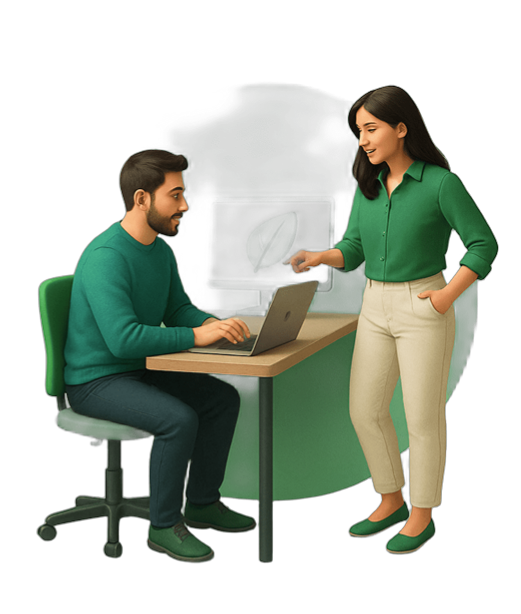
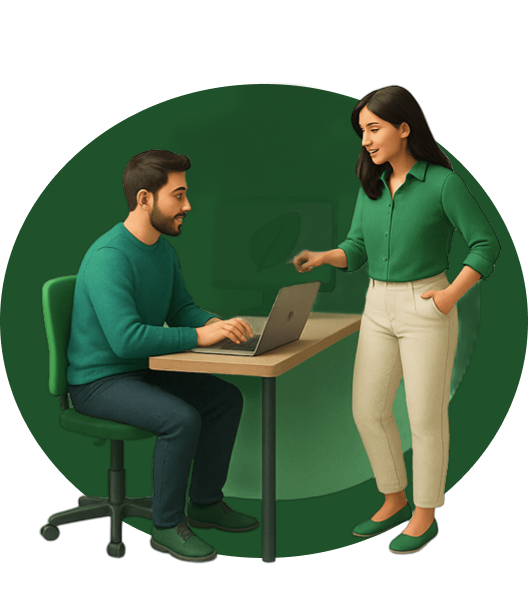
nossa visao basic css done

diff --git a/CSS/visao.css b/CSS/visao.css
@@ -8,12 +8,14 @@
 
 #visao_content {
   width: 50%;
+  /* height: 10%; */
   display: flex;
   flex-direction: column;
-  margin-top: 0;
-  margin-right: 10rem;
+  margin-top: 4%;
+  margin-right: 7.5rem;
   margin-left: 0;
-  background-color: rgb(0, 225, 255);
+  /* background-color: #fbff00; */
+
   z-index: 3;
 }
 
@@ -22,26 +24,62 @@
   height: auto;
   display: block;
   margin: 0;
-  /* margin-left: 2rem; */
+  margin-right: 2rem;
   /* z-index: 1; */
 }
 
 #visao .shape-visao {
-  background-color: #000000;
-  width: 25%;
+  background-color: #2e6239;
+  width: 43%;
   height: 70%;
   position: absolute;
   border-radius: 5% 5% 5% 5%;
-  top: 450vh;
-  left: 45rem;
+  top: 463vh;
+  left: 42rem;
   z-index: 1;
   filter: blur(2px);
 }
 
+#visao .shape2-visao {
+  background-color: #ffffff;
+  width: 40%;
+  height: 10%;
+  position: absolute;
+  border-radius: 8px;
+  top: 457vh;
+  left: 43.3rem;
+  z-index: 2;
+  box-shadow: 0px 10px 10px 2px rgba(0, 0, 0, 0.4);
+}
+
 #visao_content .section-title {
-  color: red;
+  color: #30633b;
+  font-size: 2rem;
+  font-weight: 700;
+  white-space: nowrap;
+  margin-left: 7.5rem;
 }
 
 #visao_content .section-subtitle {
-  color: rgb(38, 0, 255);
+  color: #ffffff;
+  /* margin-bottom: 2rem; */
+  font-size: 1.9rem;
+  margin-right: 13rem;
+  width: 105%;
+  font-weight: 300;
+  margin-bottom: 6rem;
+  line-height: 1.6;
+  font-weight: 300;
+}
+
+#visao .visao-description {
+  position: relative;
+  width: 120%;
+  height: auto;
+  display: flex;
+  flex-direction: column;
+  /* margin-bottom: 20%; */
+  /* background-color: rgb(0, 255, 42); */
+  z-index: 7;
+  gap: 3rem;
 }

diff --git a/index.html b/index.html
@@ -175,7 +175,7 @@
 
         <div id="visao_content">
           <div class="visao-description">
-            <h2 class="section-title">Visão</h2>
+            <h2 class="section-title">Nossa Visão</h2>
             <h3 class="section-subtitle"> Desenvolver softwares inteligentes que ajudem empresas e pessoas a reduzirem seu impacto ambiental, promovendo práticas mais conscientes, eficientes e sustentáveis no dia a dia.  
             </h3>
           </div>
